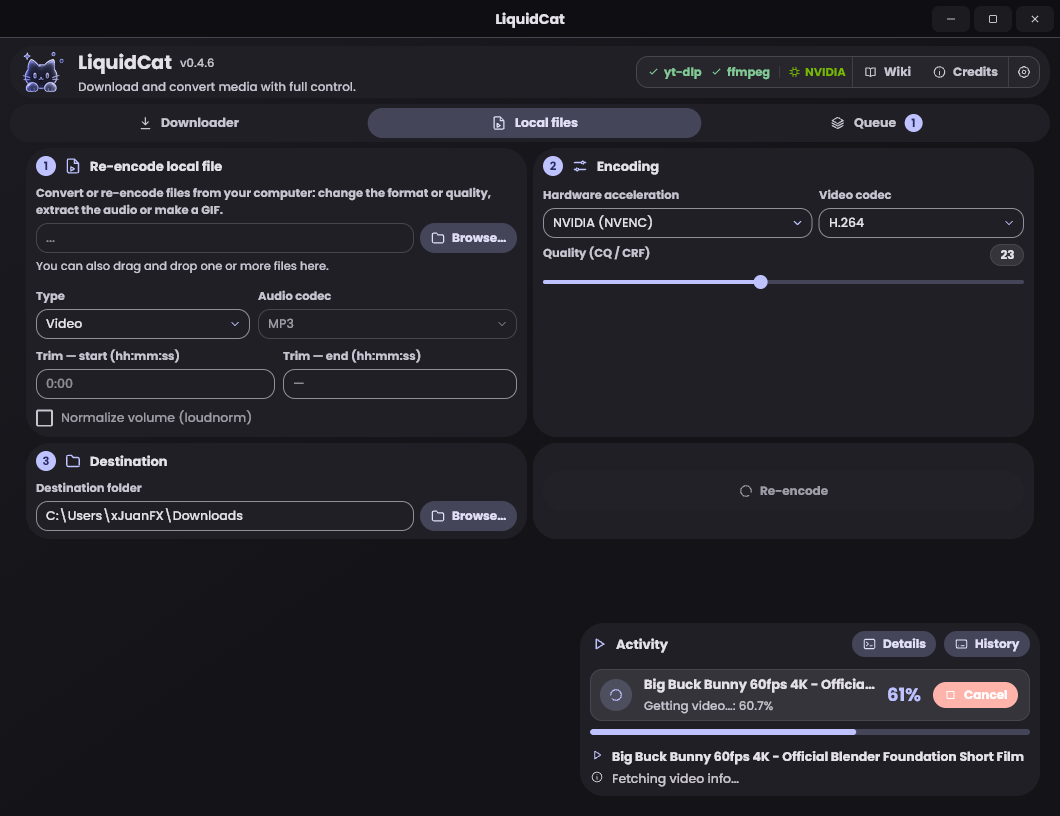
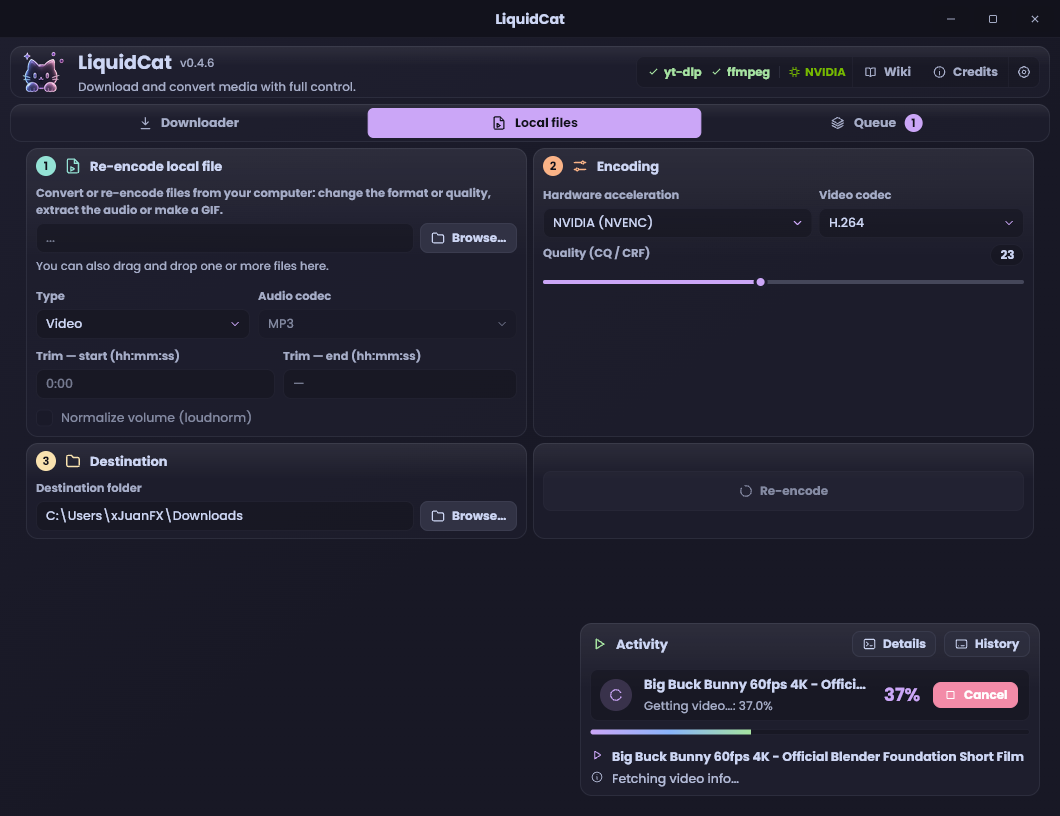
Retake LiquidCat screenshots with Catppuccin Mocha

diff --git a/script.js b/script.js
@@ -76,7 +76,7 @@ const I18N_ES = {
   "lc.t_queue_p":"Encola todos los trabajos que quieras y síguelos en la tarjeta flotante de Actividad. Te avisa con una notificación al terminar.",
   "lc.shots_label":"De cerca",
   "lc.shots_h":"Diseñado hasta <span class=\"serif\">el último píxel.</span>",
-  "lc.shots_sub":"Con el nuevo tema Material 3 de LiquidCat 0.4.6. Haz clic en una captura para verla en grande.",
+  "lc.shots_sub":"LiquidCat 0.4.6 con Catppuccin Mocha, el tema predeterminado. Haz clic en una captura para verla en grande.",
   "lc.shot1":"Descargador", "lc.shot2":"Archivos locales", "lc.shot3":"Cola y actividad", "lc.shot4":"Ajustes",
   "lc.cap1":"Pega un enlace para ver la vista previa, elige el formato y descarga.",
   "lc.cap2":"Convierte varios archivos a la vez y síguelos en la tarjeta flotante de Actividad.",

diff --git a/liquidcat/index.html b/liquidcat/index.html
@@ -109,7 +109,7 @@
       <div class="label" data-reveal><b>02</b><span data-i18n="lc.shots_label">A closer look</span></div>
       <div class="sec-head">
         <h2 class="h2" data-reveal data-i18n-html="lc.shots_h">Designed down to <span class="serif">the last pixel.</span></h2>
-        <p data-reveal data-i18n="lc.shots_sub">Shown with the new Material 3 theme in LiquidCat 0.4.6. Click a screenshot to see it full size.</p>
+        <p data-reveal data-i18n="lc.shots_sub">LiquidCat 0.4.6 with Catppuccin Mocha, the default theme. Click a screenshot to see it full size.</p>
       </div>
       <div data-reveal>
         <div class="tabs" role="tablist" data-tabs>
